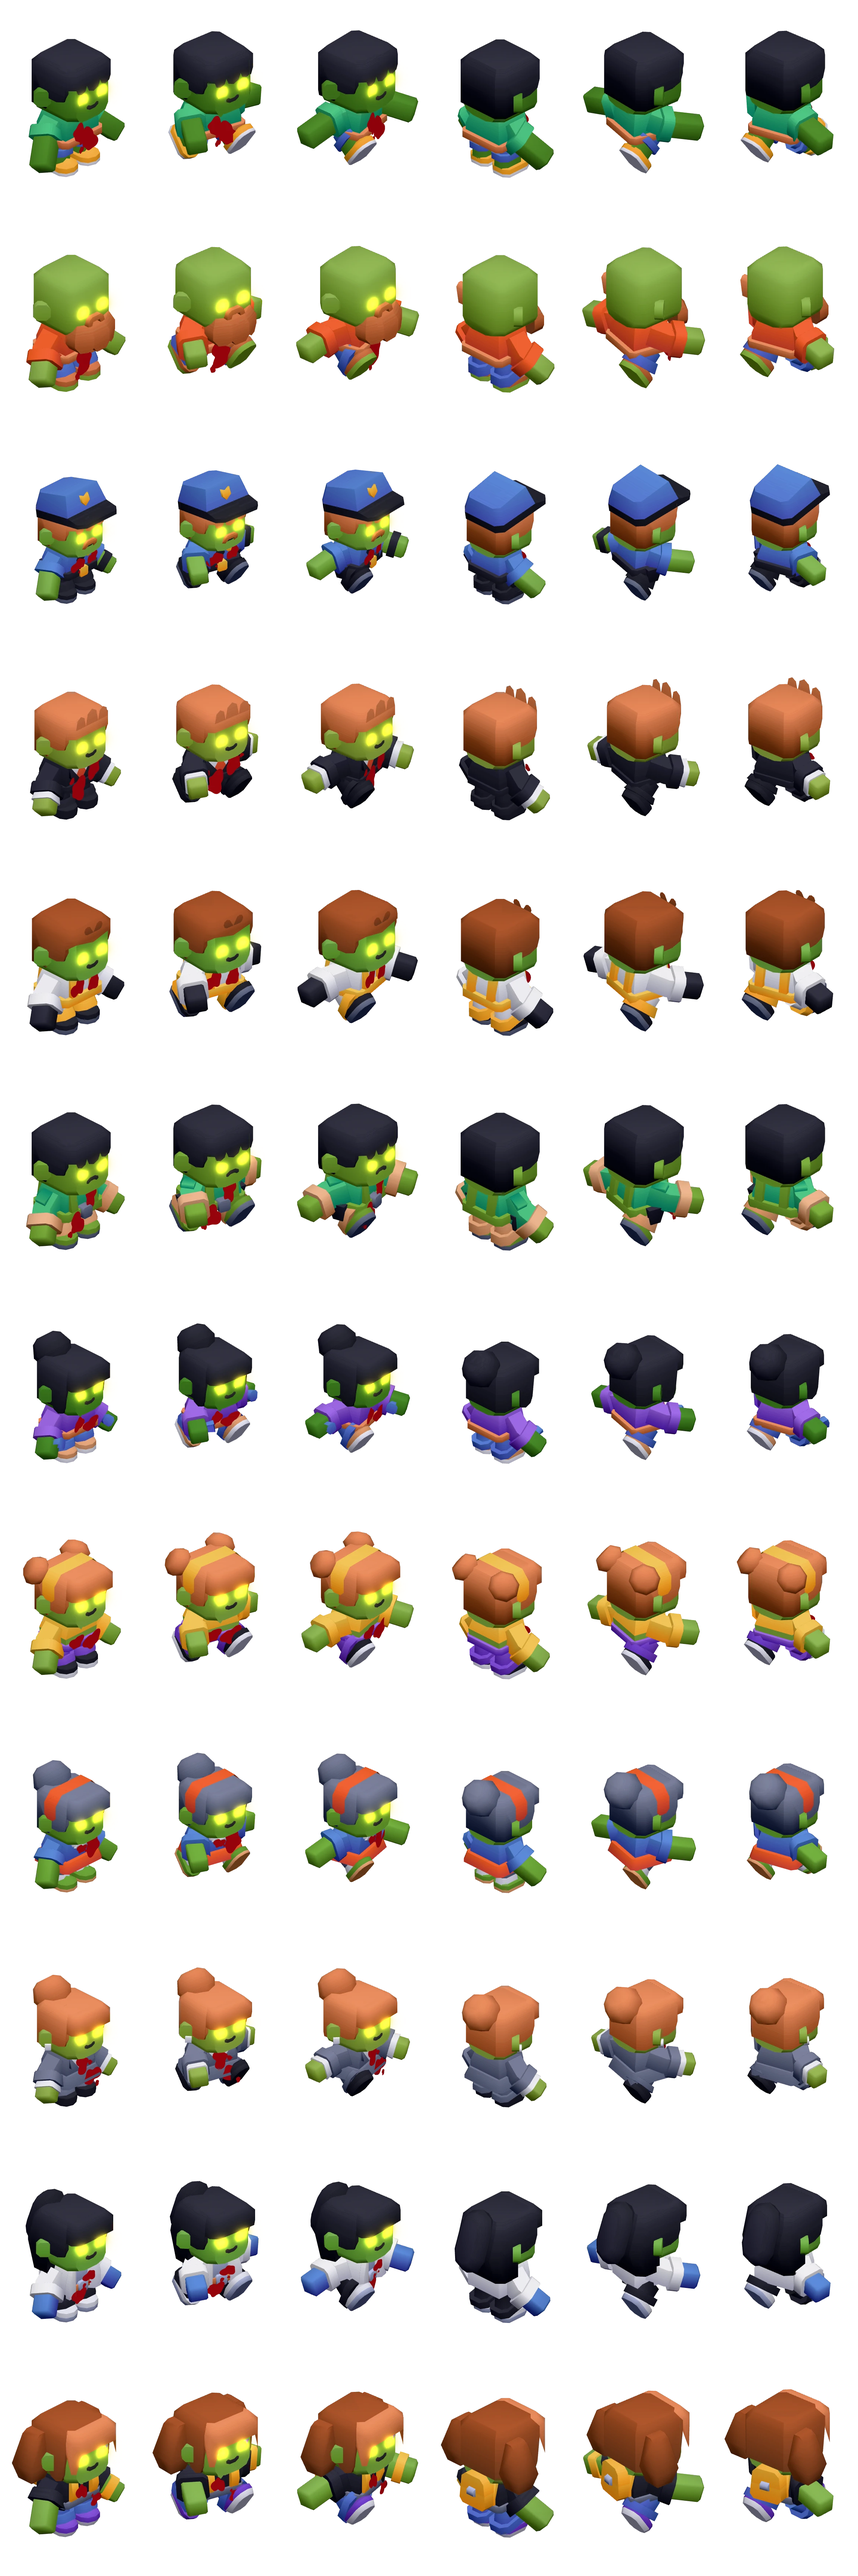
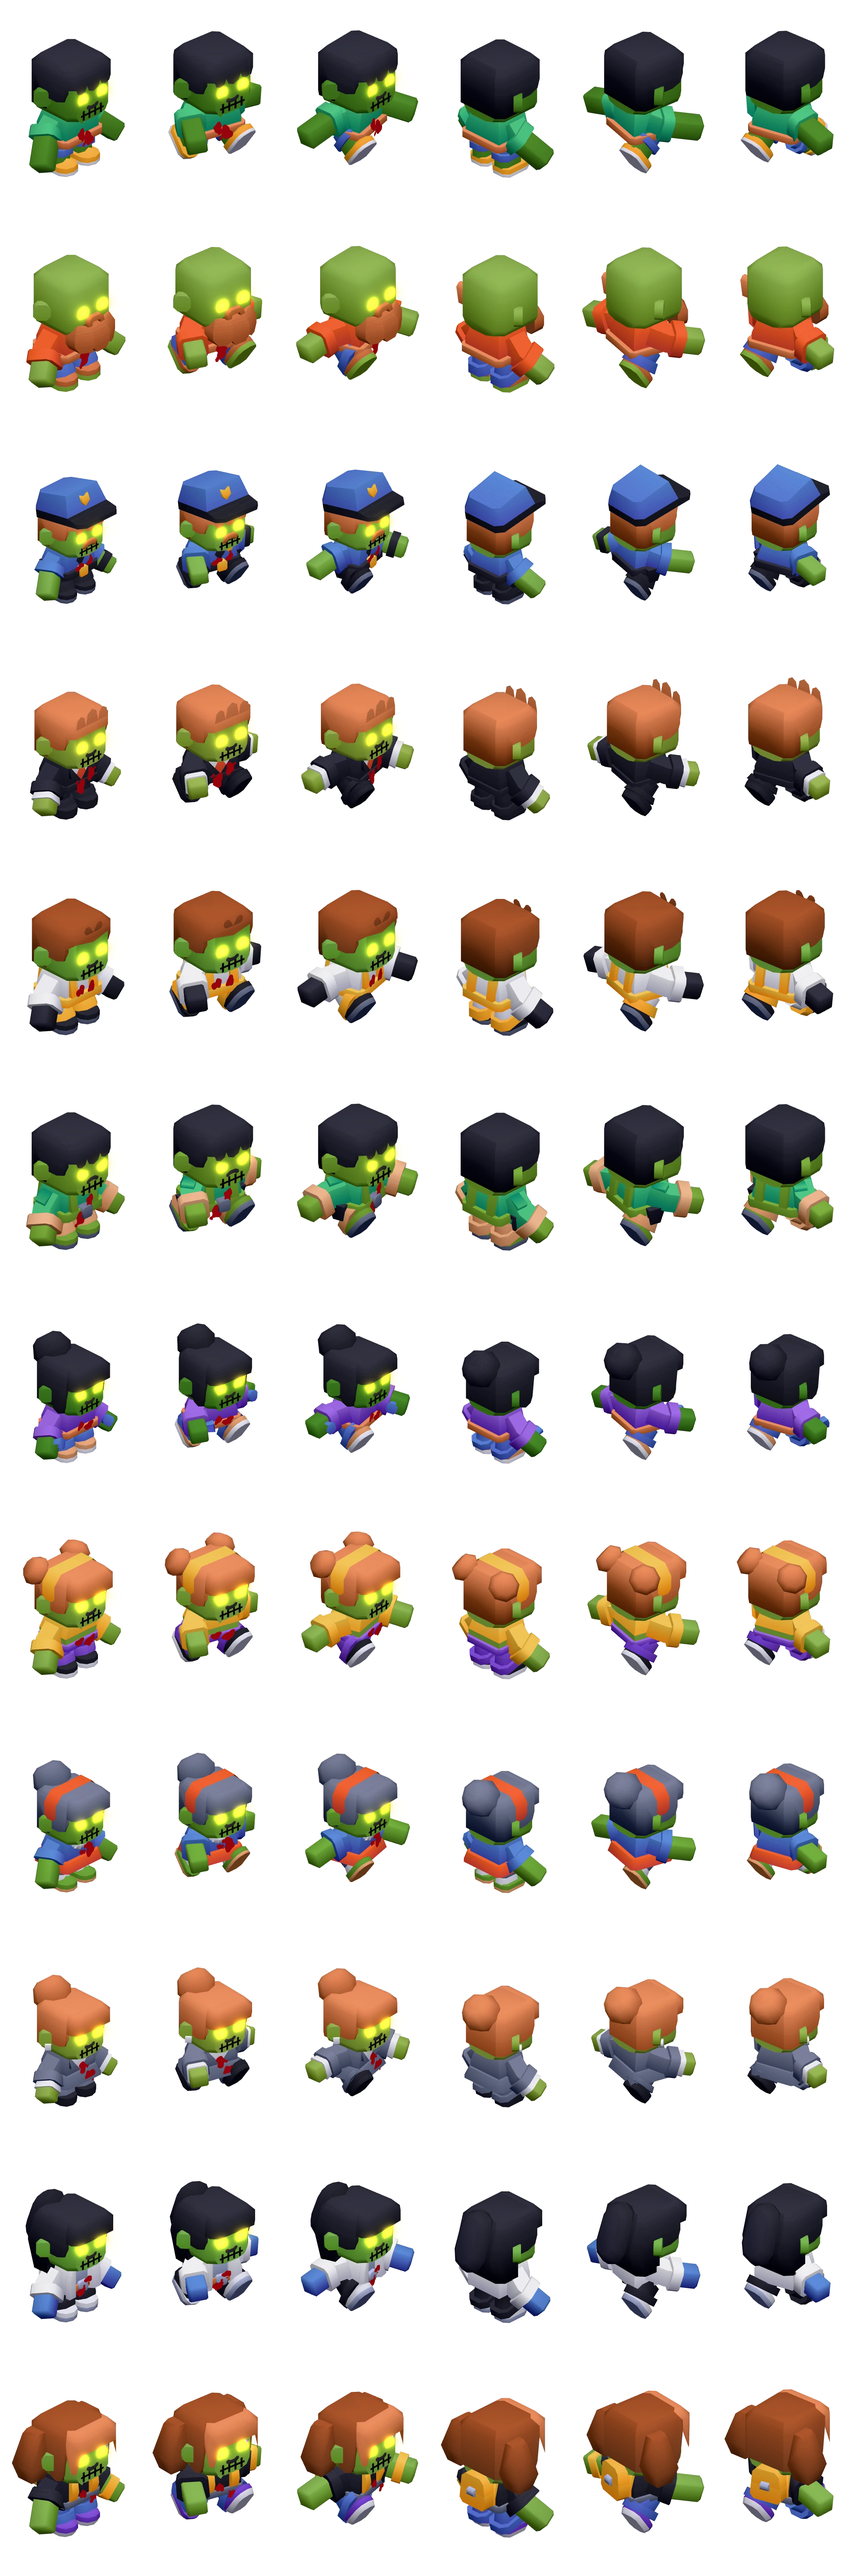
Zombis: manchas más pequeñas y boca cosida
Claude-Session: https://claude.ai/code/session_01EHHKZnjyesYxRjuSqf66QR

diff --git a/src/editor/characterSheet.ts b/src/editor/characterSheet.ts
@@ -60,6 +60,8 @@ function zombieMap(original: THREE.Texture, id: string): THREE.Texture {
   ctx.fillRect(EYE.x * k, EYE.y * k, EYE.size * k, EYE.size * k);
   ctx.fillStyle = BLOOD.color;
   ctx.fillRect(BLOOD.x * k, EYE.y * k, 16 * k, 16 * k);
+  ctx.fillStyle = THREAD.color;
+  ctx.fillRect(THREAD.x * k, EYE.y * k, 16 * k, 16 * k);
   const tex = new THREE.CanvasTexture(c);
   tex.flipY = original.flipY;
   tex.colorSpace = original.colorSpace;
@@ -85,6 +87,8 @@ function pixels(tex: THREE.Texture) {
 const EYE = { x: 8, y: 8, size: 16, color: "#fff04a" };
 /** Rojo de las manchas de sangre de la ropa: un cuadrito de 16 px en la paleta (junto al amarillo de los ojos). */
 const BLOOD = { x: 32, color: "#b3141c" };
+/** Negro de los hilos de la costura de la boca (otro cuadrito de 16 px de la paleta). */
+const THREAD = { x: 56, color: "#0c0a10" };
 const YELLOW_UV = [(EYE.x + EYE.size / 2) / 512, (EYE.y + EYE.size / 2) / 512];
 
 /**
@@ -303,10 +307,48 @@ function bloodBlob(rnd: () => number): THREE.BufferGeometry[] {
   if (rnd() < 0.7) {
     const g = make(0.22 + rnd() * 0.12, 0.7);
     const a = rnd() * 6.28;
-    g.translate(Math.cos(a) * 1.25, Math.sin(a) * 1.25, 0);
+    g.translate(Math.cos(a) * 1.2, Math.sin(a) * 1.2, 0);
     out.push(g);
   }
   return out;
+}
+
+/** Mezcla piezas planas en una malla con esqueleto, atadas al hueso `bone`, pintadas con el cuadrito (u, v) de la paleta. */
+function mergeOnto(mesh: THREE.Mesh, bone: number, items: { g: THREE.BufferGeometry; u: number }[]) {
+  const base = mesh.geometry;
+  const parts: THREE.BufferGeometry[] = [base];
+  for (const { g, u } of items) {
+    const n = g.attributes.position.count;
+    const out = new THREE.BufferGeometry();
+    out.setIndex(Array.from(g.index!.array));
+    for (const name of Object.keys(base.attributes)) {
+      const a = base.attributes[name] as THREE.BufferAttribute;
+      if (name === "position" || name === "normal") out.setAttribute(name, g.attributes[name]);
+      else if (name.startsWith("uv")) out.setAttribute(name, new THREE.BufferAttribute(new Float32Array(n * 2).map((_, i) => (i % 2 ? (EYE.y + 8) / 512 : (u + 8) / 512)), 2));
+      else if (name === "skinIndex") out.setAttribute(name, new THREE.BufferAttribute(new Uint16Array(n * 4).map((_, i) => (i % 4 === 0 ? bone : 0)), 4));
+      else if (name === "skinWeight") out.setAttribute(name, new THREE.BufferAttribute(new Float32Array(n * 4).map((_, i) => (i % 4 === 0 ? 1 : 0)), 4));
+      else out.setAttribute(name, new THREE.BufferAttribute(new Float32Array(n * a.itemSize), a.itemSize));
+    }
+    parts.push(out);
+  }
+  mesh.geometry = mergeGeometries(parts, false) ?? base;
+}
+
+/** Costura sobre la boca: un hilo horizontal con palitos cruzados (como una boca cosida), atada al hueso de la cabeza. */
+function stitchedMouth(mesh: THREE.Mesh, eyes: THREE.Vector3[]) {
+  const skinned = mesh as THREE.SkinnedMesh;
+  if (!eyes.length || !skinned.isSkinnedMesh) return;
+  const bone = (mesh.geometry.attributes.skinIndex?.getX(0) ?? 6) | 0;
+  const z = Math.max(...eyes.map((e) => e.z)) - 0.007;
+  const y = eyes[0].y - 0.105;
+  const box = (x: number, yy: number, w: number, h: number) => {
+    const g = new THREE.BoxGeometry(w, h, 0.012);
+    g.translate(x, yy, z);
+    return { g, u: THREAD.x };
+  };
+  const items = [box(0, y, 0.17, 0.011)];
+  for (const dx of [-0.065, -0.022, 0.022, 0.065]) items.push(box(dx, y, 0.013, 0.058));
+  mergeOnto(mesh, bone, items);
 }
 
 /**
@@ -318,33 +360,21 @@ function bloodStains(mesh: THREE.Mesh, seed: number) {
   if (!skinned.isSkinnedMesh) return;
   const bone = skinned.skeleton.bones.findIndex((b) => b.name === "torso");
   if (bone < 0) return;
-  const base = mesh.geometry;
   const rnd = seeded(seed + 1);
-  const parts: THREE.BufferGeometry[] = [base];
+  const items: { g: THREE.BufferGeometry; u: number }[] = [];
   for (let k = 0; k < 2; k++) {
-    const size = 0.032 + rnd() * 0.034;
-    const x = (k === 0 ? -1 : 1) * (0.015 + rnd() * 0.07);
-    const y = 0.15 + rnd() * 0.14;
+    const size = 0.02 + rnd() * 0.02;
+    const x = (k === 0 ? -1 : 1) * (0.012 + rnd() * 0.045);
+    const y = 0.17 + rnd() * 0.09;
     const rot = rnd() * 6.28;
     for (const g of bloodBlob(rnd)) {
       g.rotateZ(rot);
       g.scale(size, size * (0.8 + rnd() * 0.5), 1);
       g.translate(x, y, 0.113 + k * 0.001);
-      const n = g.attributes.position.count;
-      const out = new THREE.BufferGeometry();
-      out.setIndex(Array.from(g.index!.array));
-      for (const name of Object.keys(base.attributes)) {
-        const a = base.attributes[name] as THREE.BufferAttribute;
-        if (name === "position" || name === "normal") out.setAttribute(name, g.attributes[name]);
-        else if (name.startsWith("uv")) out.setAttribute(name, new THREE.BufferAttribute(new Float32Array(n * 2).map((_, i) => (i % 2 ? (EYE.y + 8) / 512 : (BLOOD.x + 8) / 512)), 2));
-        else if (name === "skinIndex") out.setAttribute(name, new THREE.BufferAttribute(new Uint16Array(n * 4).map((_, i) => (i % 4 === 0 ? bone : 0)), 4));
-        else if (name === "skinWeight") out.setAttribute(name, new THREE.BufferAttribute(new Float32Array(n * 4).map((_, i) => (i % 4 === 0 ? 1 : 0)), 4));
-        else out.setAttribute(name, new THREE.BufferAttribute(new Float32Array(n * a.itemSize), a.itemSize));
-      }
-      parts.push(out);
+      items.push({ g, u: BLOOD.x });
     }
   }
-  mesh.geometry = mergeGeometries(parts, false) ?? base;
+  mergeOnto(mesh, bone, items);
 }
 
 /** Los 12 personajes ya convertidos en zombi (piel verde y ojos amarillos), con sus animaciones. */
@@ -366,6 +396,7 @@ export function loadAll(): Promise<Loaded[]> {
                 const orig = [mesh.material].flat()[0] as THREE.MeshStandardMaterial;
                 if (/head/i.test(mesh.name) && orig.map) {
                   yellowEyes(mesh, orig.map, eyes);
+                  stitchedMouth(mesh, eyes);
                   headMesh = mesh;
                 }
                 if (/body/i.test(mesh.name)) {

diff --git a/CLAUDE.md b/CLAUDE.md
@@ -450,3 +450,4 @@ El usuario quiere diseñar él mismo el tablero, como en Los Sims o Photoshop, e
 - **«REINICIAR PARTIDA» y «TERMINAR PARTIDA» van al final de AJUSTES** (pedido del usuario), debajo de la lista de jugadores y encima de «LISTO».
 - **Zombis: se probaron detalles de muerto viviente y se revirtieron** (pedido del usuario: «quedaron horribles… volvamos a como estaba»): cuencas, dientes, cicatrices, heridas, costillas y piel más apagada se quitaron; los personajes quedan como antes (piel verde y ojos amarillos con neón). `characterSheet.ts` y `public/art/zombis.webp` volvieron a la versión anterior. No reintroducir sin que lo pida.
 - **Manchas de sangre en la ropa** (pedido del usuario, con su imagen de referencia de manchas rojas orgánicas; es lo único que se añade a los zombis tras revertir los detalles de muerto viviente): `bloodStains` en `characterSheet.ts` pone **dos manchas por zombi** en el pecho/barriga (forma ondulada generada con `bloodBlob`, a veces con una gotita aparte; tamaño, sitio y giro al azar con semilla = índice del personaje, así son las mismas en la hoja de sprites y en el 3D en vivo). Son geometría plana mezclada en la malla del cuerpo y atada al hueso del torso (siguen la animación); el rojo `#b3141c` es un cuadrito de 16 px de la paleta (x 32, fila de arriba). Hoja de serie regenerada (`node scripts/characters/sheet.mjs`); **la publicada se rehace al «Publicar en la TV»**. Verificado renderizando la hoja con el código del editor.
+- **Manchas más pequeñas y boca cosida** (pedido del usuario, con un dibujo de hilo horizontal con palitos cruzados): las manchas de sangre bajaron a ~la mitad (`size` 0,02-0,04, x ±0,057, y 0,17-0,26) para no salirse de la ropa, y todos los zombis llevan una **costura sobre la boca** (`stitchedMouth` en `characterSheet.ts`: un hilo horizontal de 0,17 y 4 palitos verticales, negros `THREAD` de la paleta, atados al hueso de la cabeza, a `ojos.y − 0,105`). Las dos cosas comparten `mergeOnto` (mezcla piezas planas en la malla con esqueleto). Hoja de serie regenerada; **la publicada se rehace al «Publicar en la TV»**. Verificado renderizando la hoja con el código del editor.
